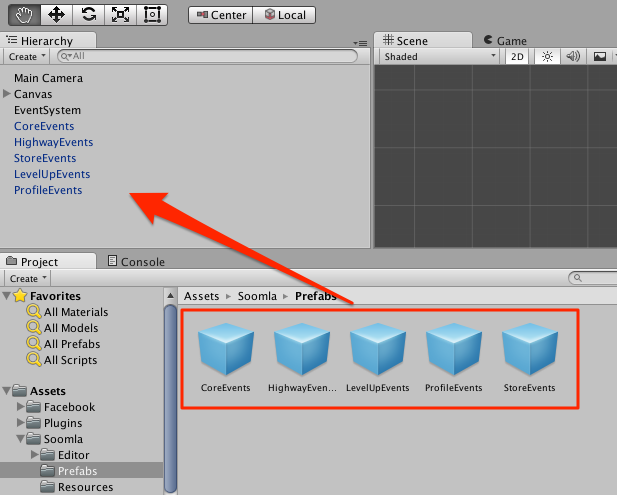
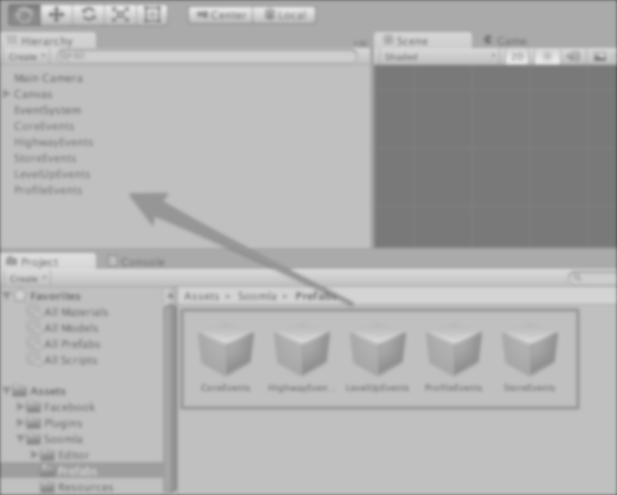
Strike out prefabs integraton instructions

Changed region(s): [[0.0, 0.0, 1.0, 1.0], [0.0, 0.4848, 0.1848, 1.0], [0.0, 0.9697, 0.0308, 1.0]]

diff --git a/src/documents/unity/profile/Profile_GettingStarted.html.md b/src/documents/unity/profile/Profile_GettingStarted.html.md
@@ -24,7 +24,11 @@ platform: 'unity'
 
 	If you want to use Store-related rewards you'll need to go over the instructions of [unity3d-store](https://github.com/soomla/unity3d-store).
 
-2. Drag the `CoreEvents` and `ProfileEvents` Prefabs from `Assets/Soomla/Prefabs` into your scene. You should see them listed in the "Hierarchy" panel. **IMPORTANT:** This step MUST be done for unity3d-profile to work properly!
+2. ~~Drag the `CoreEvents` and `ProfileEvents` Prefabs from `Assets/Soomla/Prefabs` into your scene. You should see them listed in the "Hierarchy" panel. **IMPORTANT:** This step MUST be done for unity3d-profile to work properly!~~
+
+	<div class="info-box">This step is no longer required starting from: <br>
+	Core    v1.2.0 <br>
+	Profile v2.2.0 </div>
 
 	![alt text](/img/tutorial_img/unity-profile/prefabs.png "Prefabs")
 
@@ -73,7 +77,7 @@ And that's it! unity3d-profile knows how to contact the social provider (Faceboo
   1. Edit the file `Assets/Facebook/Editor/iOS/fixup.projmods`<br>
 
   2. Under `headerpaths` change `Facebook/Scripts` to `Plugins/Facebook/Scripts`</div>
-  
+
 5. In the menu bar of the Unity editor go to **Window > Soomla > Edit Settings** and set up "Login Permissions" you want to request from FB on login.
 
   <div class="info-box">**NOTE:** You should not request all the possible permissions you'll ever need in your app,

diff --git a/src/documents/unity/levelup/Levelup_GettingStarted.html.md b/src/documents/unity/levelup/Levelup_GettingStarted.html.md
@@ -32,7 +32,13 @@ platform: 'unity'
 
   <div class="info-box">If you are completely new to SOOMLA you can use the [All-in-One](http://library.soom.la/fetch/unity3d-allinone/latest?cf=knowledge%20base) unitypackage which contains all the above packages in one package. Importing it is equivalent to preforming the above steps.</div>
 
-3. Drag the "CoreEvents", "StoreEvents", "ProfileEvents" and "LevelUpEvents" Prefabs from `Assets/Soomla/Prefabs` into your scene. You should see it listed in the "Hierarchy" panel. [This step MUST be done for unity3d-levelup to work properly]
+3. ~~Drag the "CoreEvents", "StoreEvents", "ProfileEvents" and "LevelUpEvents" Prefabs from `Assets/Soomla/Prefabs` into your scene. You should see it listed in the "Hierarchy" panel. [This step MUST be done for unity3d-levelup to work properly]~~
+
+    <div class="info-box">This step is no longer required starting from: <br>
+    Core    v1.2.0 <br>
+    Store   v1.9.0 <br>
+    Profile v2.2.0 <br>
+    LevelUp v1.1.0 </div>
 
   ![alt text](/img/tutorial_img/unity_levelup/prefabs.png "Hierarchy")
 

diff --git a/src/documents/unity/grow/GrowCompete_GettingStarted.html.md b/src/documents/unity/grow/GrowCompete_GettingStarted.html.md
@@ -41,7 +41,14 @@ Go to the [GROW dashboard](http://dashboard.soom.la) and sign up \ login. Upon l
 
 	![alt text](/img/tutorial_img/unity_grow/importUltimate.png "import")
 
-3. Open your earliest loading scene.  Drag the `CoreEvents`, `StoreEvents`, `ProfileEvents`, `LevelUpEvents` and `HighwayEvents` Prefabs from `Assets/Soomla/Prefabs` into the scene. You should see them listed in the "Hierarchy" panel.
+3. ~~Open your earliest loading scene.  Drag the `CoreEvents`, `StoreEvents`, `ProfileEvents`, `LevelUpEvents` and `HighwayEvents` Prefabs from `Assets/Soomla/Prefabs` into the scene. You should see them listed in the "Hierarchy" panel.~~
+
+	<div class="info-box">This step is no longer required starting from: <br>
+	Core    v1.2.0 <br>
+	Store   v1.9.0 <br>
+	Profile v2.2.0 <br>
+	LevelUp v1.1.0 <br>
+	Highway v2.1.0</div>
 
 	![alt text](/img/tutorial_img/unity_grow/prefabsAll.png "Prefabs")
 

diff --git a/src/documents/unity/grow/GrowUltimate_GettingStarted.html.md b/src/documents/unity/grow/GrowUltimate_GettingStarted.html.md
@@ -43,7 +43,14 @@ Go to the [GROW dashboard](http://dashboard.soom.la) and sign up \ login. Upon l
 
 	![alt text](/img/tutorial_img/unity_grow/importUltimate.png "import")
 
-3. Open your earliest loading scene.  Drag the `CoreEvents`, `StoreEvents`, `ProfileEvents`, `LevelUpEvents` and `HighwayEvents` Prefabs from `Assets/Soomla/Prefabs` into the scene. You should see them listed in the "Hierarchy" panel.
+3. ~~Open your earliest loading scene.  Drag the `CoreEvents`, `StoreEvents`, `ProfileEvents`, `LevelUpEvents` and `HighwayEvents` Prefabs from `Assets/Soomla/Prefabs` into the scene. You should see them listed in the "Hierarchy" panel.~~
+
+	<div class="info-box">This step is no longer required starting from: <br>
+	Core    v1.2.0 <br>
+	Store   v1.9.0 <br>
+	Profile v2.2.0 <br>
+	LevelUp v1.1.0 <br>
+	Highway v2.1.0</div>
 
 	![alt text](/img/tutorial_img/unity_grow/prefabsAll.png "Prefabs")
 

diff --git a/src/documents/unity/grow/GrowViral_GettingStarted.html.md b/src/documents/unity/grow/GrowViral_GettingStarted.html.md
@@ -40,7 +40,13 @@ Go to the [GROW dashboard](http://dashboard.soom.la) and sign up \ login. Upon l
 
 	![alt text](/img/tutorial_img/unity_grow/importUltimate.png "import")
 
-3. Open your earliest loading scene.  Drag the `CoreEvents`, `StoreEvents`, `ProfileEvents` and `HighwayEvents` Prefabs from `Assets/Soomla/Prefabs` into the scene. You should see them listed in the "Hierarchy" panel.
+3. ~~Open your earliest loading scene.  Drag the `CoreEvents`, `StoreEvents`, `ProfileEvents` and `HighwayEvents` Prefabs from `Assets/Soomla/Prefabs` into the scene. You should see them listed in the "Hierarchy" panel.~~
+
+	<div class="info-box">This step is no longer required starting from: <br>
+	Core    v1.2.0 <br>
+	Store   v1.9.0 <br>
+	Profile v2.2.0 <br>
+	Highway v2.1.0</div>
 
 	![alt text](/img/tutorial_img/unity_grow/prefabsNoLevelUp.png "Prefabs")
 

diff --git a/src/documents/unity/grow/GrowSpend_GettingStarted.html.md b/src/documents/unity/grow/GrowSpend_GettingStarted.html.md
@@ -45,7 +45,12 @@ Go to the [GROW dashboard](http://dashboard.soom.la) and sign up \ login. Upon l
 
 	![alt text](/img/tutorial_img/unity_grow/importStoreAndHighway.png "import")
 
-3. Open your earliest loading scene.  Drag the `CoreEvents`, `StoreEvents` and `HighwayEvents` Prefabs from `Assets/Soomla/Prefabs` into the scene. You should see them listed in the "Hierarchy" panel.
+3. ~~Open your earliest loading scene.  Drag the `CoreEvents`, `StoreEvents` and `HighwayEvents` Prefabs from `Assets/Soomla/Prefabs` into the scene. You should see them listed in the "Hierarchy" panel.~~
+
+	<div class="info-box">This step is no longer required starting from: <br>
+	Core    v1.2.0 <br>
+	Store   v1.9.0 <br>
+	Highway v2.1.0</div>
 
 	![alt text](/img/tutorial_img/unity_grow/prefabsStoreAndHighway.png "Prefabs")
 

diff --git a/src/documents/unity/store/Store_GettingStarted.html.md b/src/documents/unity/store/Store_GettingStarted.html.md
@@ -28,7 +28,11 @@ platform: 'unity'
 
     <div class="info-box">There are some necessary files in submodules linked with symbolic links. If you're cloning the project make sure to include the `--recursive` flag.</div>
 
-2. Drag the "StoreEvents" and "CoreEvents" Prefabs from `Assets/Soomla/Prefabs` into your scene. You should see them listed in the "Hierarchy" panel.
+2. ~~Drag the "StoreEvents" and "CoreEvents" Prefabs from `Assets/Soomla/Prefabs` into your scene. You should see them listed in the "Hierarchy" panel.~~
+
+    <div class="info-box">This step is no longer required starting from: <br>
+    Core    v1.2.0 <br>
+    Store   v1.9.0 </div>
 
   ![alt text](/img/tutorial_img/unity_getting_started/prefabs.png "Prefabs")
 

diff --git a/src/documents/unity/grow/GrowInsights_GettingStarted.html.md b/src/documents/unity/grow/GrowInsights_GettingStarted.html.md
@@ -38,7 +38,11 @@ Go to the [GROW dashboard](http://dashboard.soom.la) and sign up \ login. Upon l
 
 	![alt text](/img/tutorial_img/unity_grow/importHighway.png "import")
 
-3. Open your earliest loading scene.  Drag the `HighwayEvents` Prefab from `Assets/Soomla/Prefabs` into the scene. You should see it listed in the "Hierarchy" panel.
+3. ~~Open your earliest loading scene.  Drag the `HighwayEvents` Prefab from `Assets/Soomla/Prefabs` into the scene. You should see it listed in the "Hierarchy" panel.~~
+
+	<div class="info-box">This step is no longer required starting from: <br>
+	Core    v1.2.0 <br>
+	Highway v2.1.0</div>
 
 	![alt text](/img/tutorial_img/unity_grow/prefabsStoreAndHighway.png "Prefabs")
 
